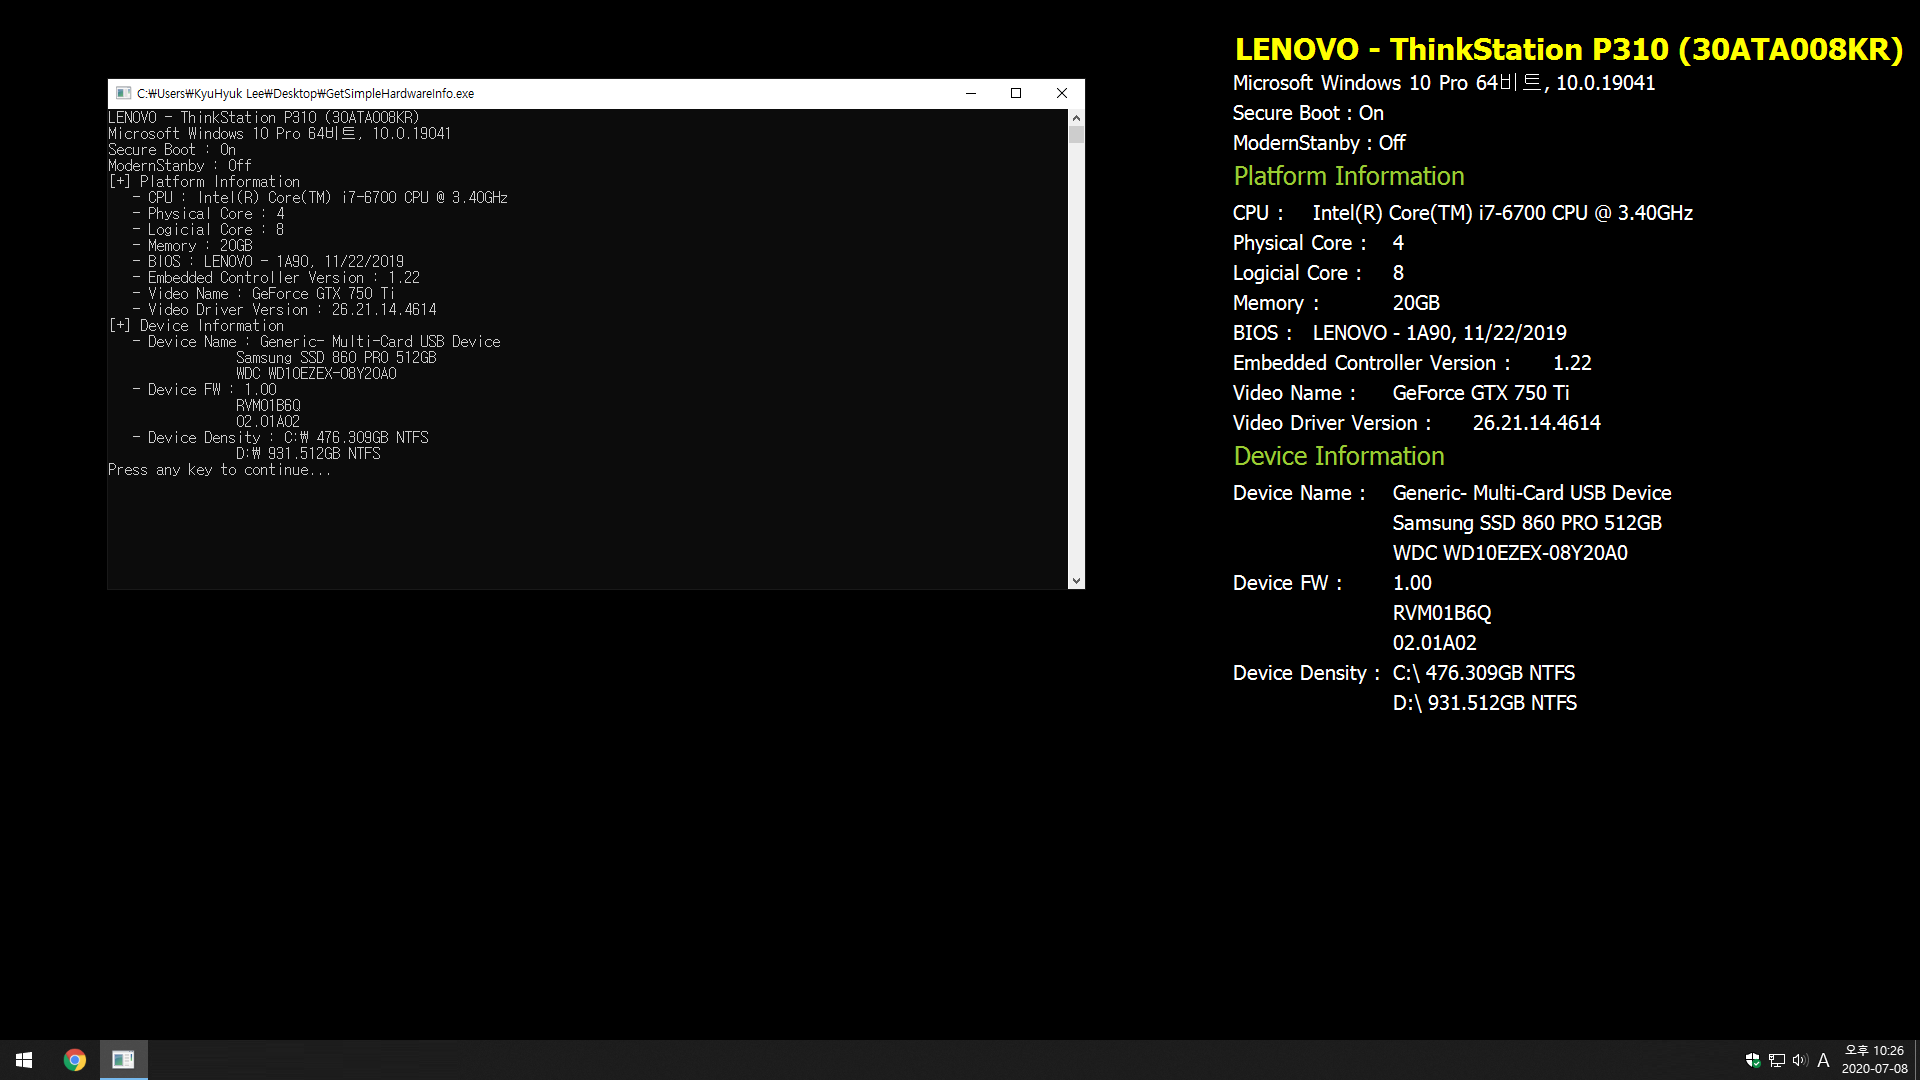
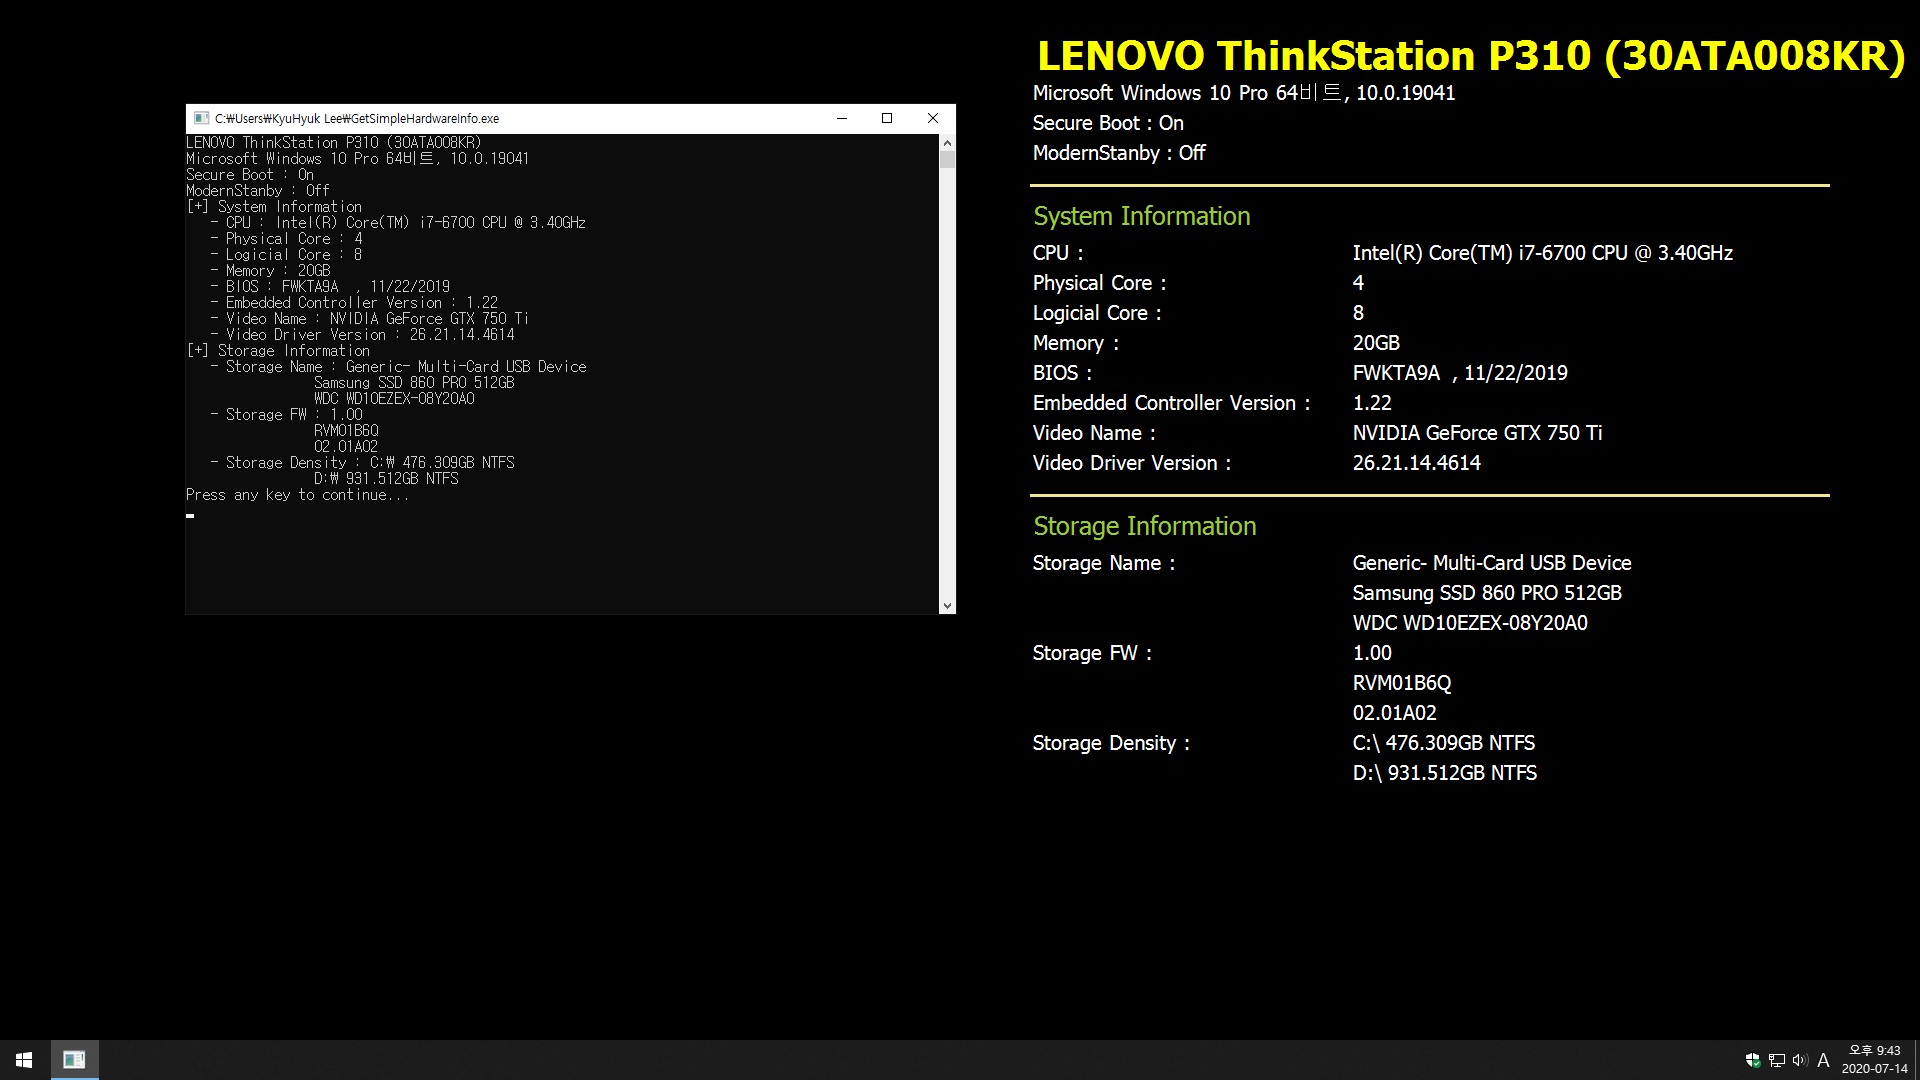
Release : GetSimpleHardwareInfo v1.0.1

diff --git a/GetSimpleHardwareInfo/Program.cs b/GetSimpleHardwareInfo/Program.cs
@@ -1,7 +1,7 @@
 using System;
 using System.Collections.Generic;
-using System.Diagnostics;
 using System.Drawing;
+using System.Drawing.Imaging;
 using System.IO;
 using System.Management;
 using System.Runtime.InteropServices;
@@ -104,7 +104,7 @@ namespace GetSimpleHardwareInfo
                 if (obj["Name"] != null)
                     computerName = obj["Name"].ToString();
             }
-            Console.WriteLine(computerVendor + " - " + computerVersion + " (" + computerName + ")");
+            Console.WriteLine(computerVendor + " " + computerVersion + " (" + computerName + ")");
         }
         public void GetOperatingSystemInfo()
         {
@@ -125,7 +125,7 @@ namespace GetSimpleHardwareInfo
         {
             ManagementObjectSearcher objects = new ManagementObjectSearcher("SELECT Name,NumberOfCores,NumberOfLogicalProcessors FROM Win32_Processor");
             ManagementObjectCollection coll = objects.Get();
-            Console.WriteLine("[+] Platform Information");
+            Console.WriteLine("[+] System Information");
             foreach (ManagementObject obj in coll)
             {
                 if (obj["Name"] != null)
@@ -167,12 +167,12 @@ namespace GetSimpleHardwareInfo
             {
                 Console.WriteLine(e.Message);
             }
-            ManagementObjectSearcher objects = new ManagementObjectSearcher("SELECT Version,EmbeddedControllerMajorVersion,EmbeddedControllerMinorVersion FROM Win32_BIOS");
+            ManagementObjectSearcher objects = new ManagementObjectSearcher("SELECT SMBIOSBIOSVersion,EmbeddedControllerMajorVersion,EmbeddedControllerMinorVersion FROM Win32_BIOS");
             ManagementObjectCollection coll = objects.Get();
             foreach (ManagementObject obj in coll)
             {
-                if (obj["Version"] != null)
-                    biosVersion = obj["Version"].ToString() + ", " + biosDate;
+                if (obj["SMBIOSBIOSVersion"] != null)
+                    biosVersion = obj["SMBIOSBIOSVersion"].ToString() + ", " + biosDate;
                 if (obj["EmbeddedControllerMajorVersion"] != null)
                     ecMajor = obj["EmbeddedControllerMajorVersion"].ToString();
                 if (obj["EmbeddedControllerMinorVersion"] != null)
@@ -183,12 +183,12 @@ namespace GetSimpleHardwareInfo
         }
         public void GetVideoInfo()
         {
-            ManagementObjectSearcher objects = new ManagementObjectSearcher("SELECT VideoProcessor,DriverVersion FROM Win32_VideoController");
+            ManagementObjectSearcher objects = new ManagementObjectSearcher("SELECT Name,DriverVersion FROM Win32_VideoController");
             ManagementObjectCollection coll = objects.Get();
             foreach (ManagementObject obj in coll)
             {
-                if (obj["VideoProcessor"] != null)
-                    videoName.Add(obj["VideoProcessor"].ToString());
+                if (obj["Name"] != null)
+                    videoName.Add(obj["Name"].ToString());
                 if (obj["DriverVersion"] != null)
                     videoDriverVersion.Add(obj["DriverVersion"].ToString());
             }
@@ -210,11 +210,11 @@ namespace GetSimpleHardwareInfo
                 if (obj["FirmwareRevision"] != null)
                     diskFirmware.Add(obj["FirmwareRevision"].ToString());
             }
-            Console.WriteLine("[+] Device Information");
-            Console.WriteLine("   - Device Name : " + diskModel[0]);
+            Console.WriteLine("[+] Storage Information");
+            Console.WriteLine("   - Storage Name : " + diskModel[0]);
             for (int index = 1; index < diskModel.Count; index++)
                 Console.WriteLine("\t\t" + diskModel[index]);
-            Console.WriteLine("   - Device FW : " + diskFirmware[0]);
+            Console.WriteLine("   - Storage FW : " + diskFirmware[0]);
             for (int index = 1; index < diskFirmware.Count; index++)
                 Console.WriteLine("\t\t" + diskFirmware[index]);
         }
@@ -231,63 +231,70 @@ namespace GetSimpleHardwareInfo
                 if (obj["FileSystem"] != null)
                     partitionFileSystem.Add(obj["FileSystem"].ToString());
             }
-            Console.WriteLine("   - Device Density : " + partitionId[0] + "\\ " + Math.Round((Convert.ToDouble(partitionSize[0])/1024/1024/1024), 3) + "GB " + partitionFileSystem[0]);
+            Console.WriteLine("   - Storage Density : " + partitionId[0] + "\\ " + Math.Round(Convert.ToDouble(partitionSize[0])/1024/1024/1024, 3) + "GB " + partitionFileSystem[0]);
             for (int index = 1; index < partitionSize.Count; index++)
-                Console.WriteLine("\t\t" + partitionId[index] + "\\ " + Math.Round((Convert.ToDouble(partitionSize[index]) / 1024 / 1024 / 1024), 3) + "GB " + partitionFileSystem[index]);
+                Console.WriteLine("\t\t" + partitionId[index] + "\\ " + Math.Round(Convert.ToDouble(partitionSize[index]) / 1024 / 1024 / 1024, 3) + "GB " + partitionFileSystem[index]);
         }
     }
 
     class GenerateWallpaper
     {
-        private Wmi wmi;
+        private readonly Wmi wmi;
         public GenerateWallpaper(Wmi wmi)
         {
             this.wmi = wmi;
         }
         public string GetFileName()
         {
-            return Path.Combine(Path.GetTempPath(), "GetSimpleHardwareInfo.bmp");
+            return Path.Combine(Path.GetTempPath(), "GetSimpleHardwareInfo.png");
         }
         public void Run()
         {
             Rectangle resolution = Screen.PrimaryScreen.Bounds;
-            int xPosition = resolution.Width - 700, yPosition = 20;
+            int xPosition = resolution.Width - 900, yPosition = 20;
             Bitmap bitmap = new Bitmap(resolution.Width, resolution.Height);
             Graphics graphics = Graphics.FromImage(bitmap);
             graphics.Clear(Color.Black);
-            DrawString(graphics, wmi.computerVendor + " - " + wmi.computerVersion + " (" + wmi.computerName + ")", 30, FontStyle.Bold, Color.Yellow, xPosition, yPosition, 40, out yPosition);
+            DrawString(graphics, wmi.computerVendor + " " + wmi.computerVersion + " (" + wmi.computerName + ")", 40, FontStyle.Bold, Color.Yellow, xPosition, yPosition, 50, out yPosition);
             DrawString(graphics, wmi.osCaption + " " + wmi.osArchitecture + ", " + wmi.osVersion, 20, FontStyle.Regular, Color.White, xPosition, yPosition, 30, out yPosition);
             DrawString(graphics, wmi.secureBoot, 20, FontStyle.Regular, Color.White, xPosition, yPosition, 30, out yPosition);
             DrawString(graphics, wmi.modernStanby, 20, FontStyle.Regular, Color.White, xPosition, yPosition, 30, out yPosition);
-            DrawString(graphics, "Platform Information", 25, FontStyle.Regular, Color.YellowGreen, xPosition, yPosition, 40, out yPosition);
-            DrawString(graphics, "CPU : \t" + wmi.cpuName, 20, FontStyle.Regular, Color.White, xPosition, yPosition, 30, out yPosition);
-            DrawString(graphics, "Physical Core : \t" + wmi.cpuNumberOfCores, 20, FontStyle.Regular, Color.White, xPosition, yPosition, 30, out yPosition);
-            DrawString(graphics, "Logicial Core : \t" + wmi.cpuNumberOfLogicalProcessors, 20, FontStyle.Regular, Color.White, xPosition, yPosition, 30, out yPosition);
-            DrawString(graphics, "Memory : \t" + wmi.memoryCapacity, 20, FontStyle.Regular, Color.White, xPosition, yPosition, 30, out yPosition);
-            DrawString(graphics, "BIOS : \t" + wmi.biosVersion, 20, FontStyle.Regular, Color.White, xPosition, yPosition, 30, out yPosition);
+            DrawHorizontalBar(graphics, Color.Khaki, 800, xPosition, yPosition, 30, out yPosition);
+            DrawString(graphics, "System Information", 25, FontStyle.Regular, Color.YellowGreen, xPosition, yPosition, 40, out yPosition);
+            DrawString(graphics, "CPU : \t\t\t\t" + wmi.cpuName, 20, FontStyle.Regular, Color.White, xPosition, yPosition, 30, out yPosition);
+            DrawString(graphics, "Physical Core : \t\t\t" + wmi.cpuNumberOfCores, 20, FontStyle.Regular, Color.White, xPosition, yPosition, 30, out yPosition);
+            DrawString(graphics, "Logicial Core : \t\t\t" + wmi.cpuNumberOfLogicalProcessors, 20, FontStyle.Regular, Color.White, xPosition, yPosition, 30, out yPosition);
+            DrawString(graphics, "Memory : \t\t\t" + wmi.memoryCapacity, 20, FontStyle.Regular, Color.White, xPosition, yPosition, 30, out yPosition);
+            DrawString(graphics, "BIOS : \t\t\t\t" + wmi.biosVersion, 20, FontStyle.Regular, Color.White, xPosition, yPosition, 30, out yPosition);
             DrawString(graphics, "Embedded Controller Version : \t" + wmi.ecMajor + "." + wmi.ecMinor, 20, FontStyle.Regular, Color.White, xPosition, yPosition, 30, out yPosition);
-            DrawString(graphics, "Video Name : \t" + wmi.videoName[0], 20, FontStyle.Regular, Color.White, xPosition, yPosition, 30, out yPosition);
+            DrawString(graphics, "Video Name : \t\t\t" + wmi.videoName[0], 20, FontStyle.Regular, Color.White, xPosition, yPosition, 30, out yPosition);
             for (int index = 1; index < wmi.videoName.Count; index++)
-                DrawString(graphics, "\t\t" + wmi.videoName[index], 20, FontStyle.Regular, Color.White, xPosition, yPosition, 30, out yPosition);
-            DrawString(graphics, "Video Driver Version : \t" + wmi.videoDriverVersion[0], 20, FontStyle.Regular, Color.White, xPosition, yPosition, 30, out yPosition);
+                DrawString(graphics, "\t\t\t\t" + wmi.videoName[index], 20, FontStyle.Regular, Color.White, xPosition, yPosition, 30, out yPosition);
+            DrawString(graphics, "Video Driver Version : \t\t" + wmi.videoDriverVersion[0], 20, FontStyle.Regular, Color.White, xPosition, yPosition, 30, out yPosition);
             for (int index = 1; index < wmi.videoDriverVersion.Count; index++)
-                DrawString(graphics, "\t\t" + wmi.videoDriverVersion[index], 20, FontStyle.Regular, Color.White, xPosition, yPosition, 30, out yPosition);
-            DrawString(graphics, "Device Information", 25, FontStyle.Regular, Color.YellowGreen, xPosition, yPosition, 40, out yPosition);
-            DrawString(graphics, "Device Name : \t" + wmi.diskModel[0], 20, FontStyle.Regular, Color.White, xPosition, yPosition, 30, out yPosition);
+                DrawString(graphics, "\t\t\t\t" + wmi.videoDriverVersion[index], 20, FontStyle.Regular, Color.White, xPosition, yPosition, 30, out yPosition);
+            DrawHorizontalBar(graphics, Color.Khaki, 800, xPosition, yPosition, 30, out yPosition);
+            DrawString(graphics, "Storage Information", 25, FontStyle.Regular, Color.YellowGreen, xPosition, yPosition, 40, out yPosition);
+            DrawString(graphics, "Storage Name : \t\t\t" + wmi.diskModel[0], 20, FontStyle.Regular, Color.White, xPosition, yPosition, 30, out yPosition);
             for (int index = 1; index < wmi.diskModel.Count; index++)
-                DrawString(graphics, "\t\t" + wmi.diskModel[index], 20, FontStyle.Regular, Color.White, xPosition, yPosition, 30, out yPosition);
-            DrawString(graphics, "Device FW : \t" + wmi.diskFirmware[0], 20, FontStyle.Regular, Color.White, xPosition, yPosition, 30, out yPosition);
+                DrawString(graphics, "\t\t\t\t" + wmi.diskModel[index], 20, FontStyle.Regular, Color.White, xPosition, yPosition, 30, out yPosition);
+            DrawString(graphics, "Storage FW : \t\t\t" + wmi.diskFirmware[0], 20, FontStyle.Regular, Color.White, xPosition, yPosition, 30, out yPosition);
             for (int index = 1; index < wmi.diskFirmware.Count; index++)
-                DrawString(graphics, "\t\t" + wmi.diskFirmware[index], 20, FontStyle.Regular, Color.White, xPosition, yPosition, 30, out yPosition);
-            DrawString(graphics, "Device Density : \t" + wmi.partitionId[0] + "\\ " + Math.Round((Convert.ToDouble(wmi.partitionSize[0]) / 1024 / 1024 / 1024), 3) + "GB " + wmi.partitionFileSystem[0], 20, FontStyle.Regular, Color.White, xPosition, yPosition, 30, out yPosition);
+                DrawString(graphics, "\t\t\t\t" + wmi.diskFirmware[index], 20, FontStyle.Regular, Color.White, xPosition, yPosition, 30, out yPosition);
+            DrawString(graphics, "Storage Density : \t\t" + wmi.partitionId[0] + "\\ " + Math.Round(Convert.ToDouble(wmi.partitionSize[0]) / 1024 / 1024 / 1024, 3) + "GB " + wmi.partitionFileSystem[0], 20, FontStyle.Regular, Color.White, xPosition, yPosition, 30, out yPosition);
             for (int index = 1; index < wmi.partitionSize.Count; index++)
-                DrawString(graphics, "\t\t" + wmi.partitionId[index] + "\\ " + Math.Round((Convert.ToDouble(wmi.partitionSize[index]) / 1024 / 1024 / 1024), 3) + "GB " + wmi.partitionFileSystem[index], 20, FontStyle.Regular, Color.White, xPosition, yPosition, 30, out yPosition);
+                DrawString(graphics, "\t\t\t\t" + wmi.partitionId[index] + "\\ " + Math.Round(Convert.ToDouble(wmi.partitionSize[index]) / 1024 / 1024 / 1024, 3) + "GB " + wmi.partitionFileSystem[index], 20, FontStyle.Regular, Color.White, xPosition, yPosition, 30, out yPosition);
             graphics.DrawImage(bitmap, new Point(10, 10));
-            bitmap.Save(GetFileName());
+            bitmap.Save(GetFileName(), ImageFormat.Png);
         }
         private void DrawString(Graphics graphics, string text, int size, FontStyle fontStyle, Color fontColor, int xPosition, int yPosition, int yMargin, out int outYPosition)
         {
             graphics.DrawString(text, new Font(new FontFamily("Tahoma"), size, fontStyle, GraphicsUnit.Pixel), new SolidBrush(fontColor), new PointF(xPosition, yPosition));
+            outYPosition = yPosition + yMargin;
+        }
+        private void DrawHorizontalBar(Graphics graphics, Color barColor, int width, int xPosition, int yPosition, int yMargin, out int outYPosition)
+        {
+            graphics.DrawLine(new Pen(barColor, 3), xPosition, yPosition + (yMargin / 2), xPosition + width, yPosition + (yMargin / 2));
             outYPosition = yPosition + yMargin;
         }
     }

diff --git a/GetSimpleHardwareInfo/Properties/AssemblyInfo.cs b/GetSimpleHardwareInfo/Properties/AssemblyInfo.cs
@@ -1,5 +1,4 @@
 using System.Reflection;
-using System.Runtime.CompilerServices;
 using System.Runtime.InteropServices;
 
 // 어셈블리에 대한 일반 정보는 다음 특성 집합을 통해 
@@ -8,9 +7,9 @@ using System.Runtime.InteropServices;
 [assembly: AssemblyTitle("GetSimpleHardwareInfo")]
 [assembly: AssemblyDescription("")]
 [assembly: AssemblyConfiguration("")]
-[assembly: AssemblyCompany("")]
+[assembly: AssemblyCompany("KyuDevelop")]
 [assembly: AssemblyProduct("GetSimpleHardwareInfo")]
-[assembly: AssemblyCopyright("Copyright ©  2020")]
+[assembly: AssemblyCopyright("Copyright © KyuHyuk Lee 2020")]
 [assembly: AssemblyTrademark("")]
 [assembly: AssemblyCulture("")]
 
@@ -32,5 +31,5 @@ using System.Runtime.InteropServices;
 // 모든 값을 지정하거나 아래와 같이 '*'를 사용하여 빌드 번호 및 수정 번호를
 // 기본값으로 할 수 있습니다.
 // [assembly: AssemblyVersion("1.0.*")]
-[assembly: AssemblyVersion("1.0.0.0")]
-[assembly: AssemblyFileVersion("1.0.0.0")]
+[assembly: AssemblyVersion("1.0.1.0")]
+[assembly: AssemblyFileVersion("1.0.1.0")]
